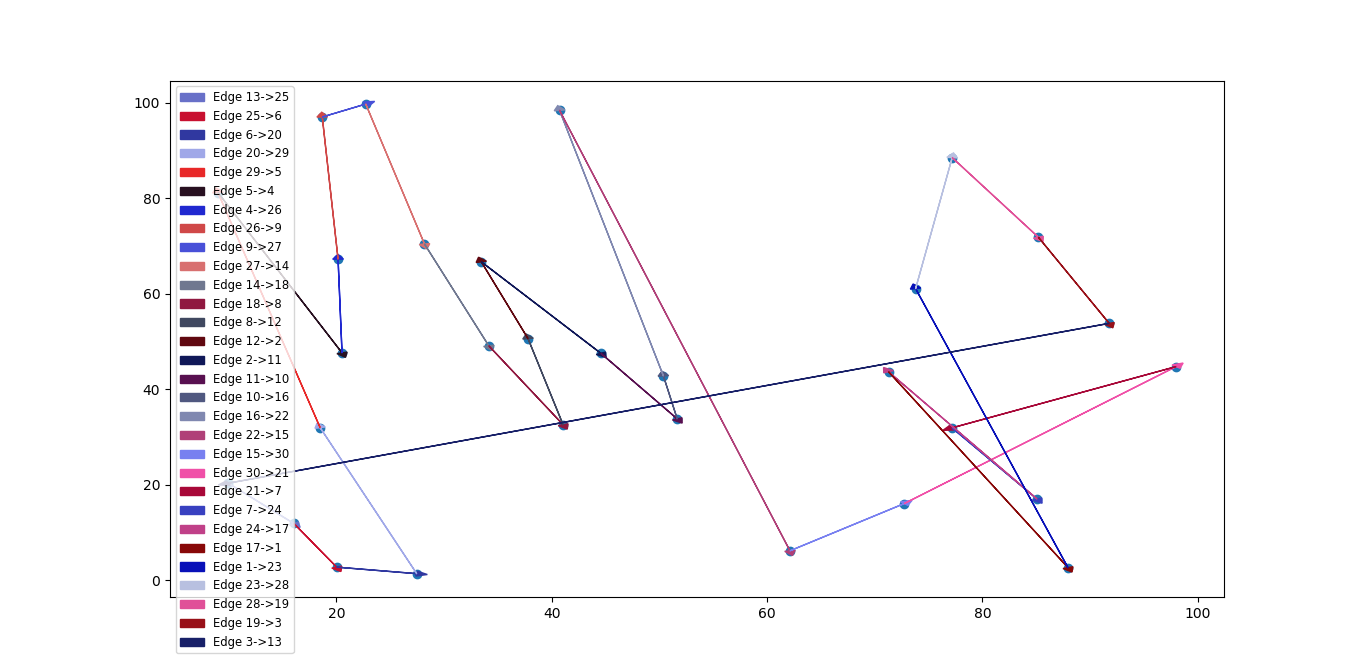
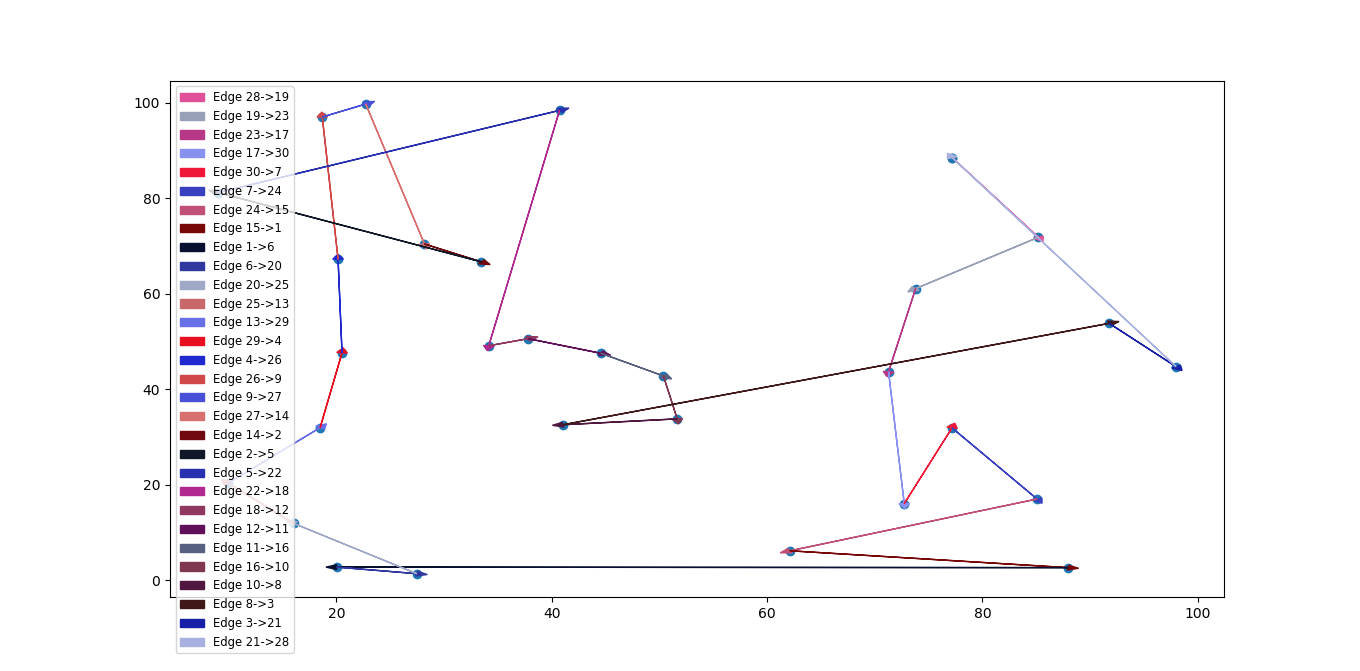
Running through the 'best' case output the algorithm still isnt choosing the closest vertex.  Will have to do some of the problematic calculations by hand in the morning

diff --git a/Project 3/src/Utilities.py b/Project 3/src/Utilities.py
@@ -9,49 +9,10 @@ class Math():
         x2, y2 = line_point_2
         x0, y0 = point
 
-
-
         if (x0 < min(x1, x2) or x0 > max(x1,x2)) and (y0 < min(y1, y2) or y0 > max(y1, y2)):
             return min([Math.calculate_distance_from_point_to_point(line_point_1, point), Math.calculate_distance_from_point_to_point(line_point_2, point)])
         else:
             return abs((x2-x1)*(y1-y0) - (x1-x0)*(y2-y1)) / (((y2-y1)**2 + (x2-x1)**2)**0.5)
-
-#        vector_ab = (x2-x1, y2-y1)
-#        vector_ac = (x0-x1, y0-y1)
-#        vector_ab_ac = (vector_ab[0]*vector_ac[0], vector_ab[1]*vector_ac[1])
-#        area = (vector_ab_ac[0]**2 + vector_ab_ac[1]**2)**0.5
-#
-#        return area / (vector_ab[0]**2 + vector_ab[1]**2)**0.5
-
-#        p1 = np.array(line_point_1)
-#        p2 = np.array(line_point_2)
-#        p0 = np.array(point)
-
-#        print("p1", p1)
-#        print("p2", p2)
-#        print("p0", p0)
-
-#        v = p2 - p1
-#        w = p0 - p1
-
-#        c1 = w.dot(v)
-#        if c1 <= 0:
-            # P0 is before P1
-#            return Math.calculate_distance_from_point_to_point(p0, p1)
-#        c2 = v.dot(v)
-#        if c2 <= c1:
-#            return Math.calculate_distance_from_point_to_point(p0, p2)
-#        b = c1 / c2
-#        Pb = p0 + v * b
-#        return Math.calculate_distance_from_point_to_point(p0, Pb)
-
-
-#        vector_ab = (x2-x1, y2-y1)
-#        vector_ac = (x0-x1, y0-y1)
-
-#        if ( (ab_) )
-
-#        return ()
 
     @staticmethod
     def calculate_distance_from_point_to_point(point1, point2):

diff --git a/Project 3/src/TravelingSalesman.py b/Project 3/src/TravelingSalesman.py
@@ -86,12 +86,8 @@ class TravelingSalesman():
             closest_vertex = None
             closest_vertex_distance = None
 
-            print("Choosing next vertex...")
-
             for vertex in self.route.get_unvisited_vertices():
                 vertex_distance = self.route.get_shortest_distance_to_route(vertex)
-
-                print(str(vertex), vertex_distance)
 
                 if closest_vertex is None:
                     closest_vertex = vertex

diff --git a/Project 3/src/Graph.py b/Project 3/src/Graph.py
@@ -210,8 +210,6 @@ class Route(object):
             for edge in self.edges:
                 distance_to_edge = edge.compute_distance_to_vertex(vertex)
 
-                print(str(edge), distance_to_edge)
-
                 if closest_vertex_distance is None:
                     closest_vertex_distance = distance_to_edge
                 else:

diff --git a/Project 3/src/Display.py b/Project 3/src/Display.py
@@ -266,5 +266,5 @@ if __name__ == '__main__':
 
         # Start the GUI
         app = QApplication(sys.argv)
-        ex = TravelingSalesmanGUI(TravelingSalesman.GreedyAlgorithm(graph, 13))
+        ex = TravelingSalesmanGUI(TravelingSalesman.GreedyAlgorithm(graph, 28))
         sys.exit(app.exec_())
